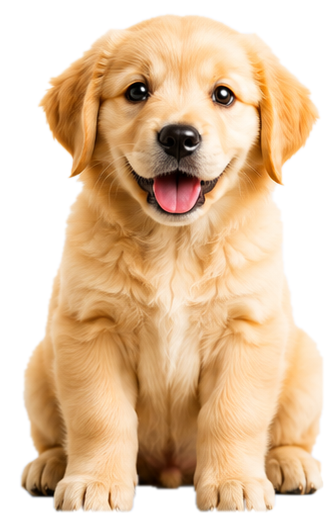
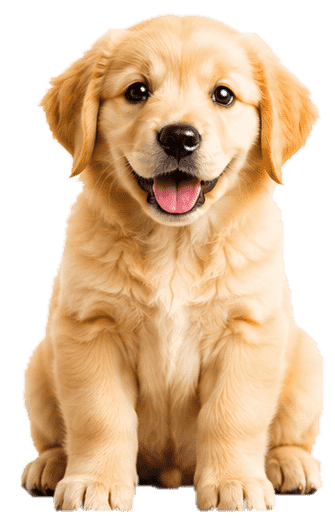
fea: reduce image size in landing

diff --git a/src/app/(default)/_components/home/hero-section.tsx b/src/app/(default)/_components/home/hero-section.tsx
@@ -70,7 +70,7 @@ export function HeroSection() {
           <div className="tw:absolute tw:-inset-3 tw:rounded-[2.25rem] tw:bg-primary/15 tw:blur-2xl tw:sm:-inset-5" />
           <div className="tw:relative tw:aspect-[16/10] tw:overflow-hidden tw:rounded-[2rem] tw:border tw:border-background/70 tw:bg-card tw:shadow-2xl tw:shadow-foreground/15">
             <Image
-              src="/images/home/hero-pets.png"
+              src="/images/home/hero-pets.jpeg"
               alt="سگ گلدن رتریور و گربه پرشین در خانهای روشن، کنار نمای موبایل پتشاپ"
               fill
               priority

diff --git a/src/app/(default)/products/_components/product-hero-section.tsx b/src/app/(default)/products/_components/product-hero-section.tsx
@@ -80,7 +80,7 @@ export function ProductHeroRenderer() {
           <div className="tw:absolute tw:-inset-3 tw:rounded-[2.75rem] tw:border tw:border-primary/15 tw:bg-primary/5 tw:rotate-2" />
           <div className="tw:relative tw:aspect-[4/3] tw:overflow-hidden tw:rounded-[2.5rem] tw:border tw:border-border/60 tw:bg-card tw:shadow-2xl tw:shadow-primary/15">
             <Image
-              src="/images/home/hero-pets.png"
+              src="/images/home/hero-pets.jpeg"
               alt="گلدن رتریور و گربه پرشین در خانه روشن"
               fill
               priority

diff --git a/src/app/(default)/pets/[slug]/_components/pet-detail-data.ts b/src/app/(default)/pets/[slug]/_components/pet-detail-data.ts
@@ -36,7 +36,7 @@ const max: PetDetail = {
   images: [
     { src: '/images/home/category-dog.jpg', alt: 'مکس، توله گلدن رتریور در فضای سبز' },
     { src: '/images/home/delivery.jpg', alt: 'مکس در محیط آرام خانه' },
-    { src: '/images/home/hero-pets.png', alt: 'مکس در کنار دیگر حیوانات خانگی' },
+    { src: '/images/home/hero-pets.jpeg', alt: 'مکس در کنار دیگر حیوانات خانگی' },
   ],
 };
 

diff --git a/src/app/(default)/pets/landing/_components/pet-hero-section.tsx b/src/app/(default)/pets/landing/_components/pet-hero-section.tsx
@@ -14,7 +14,7 @@ export function PetHeroSection() {
     >
       <div className="tw:group/hero tw:relative tw:h-[530px] tw:overflow-hidden tw:rounded-3xl tw:shadow-lg tw:md:h-[600px]">
         <Image
-          src="/images/home/hero-pets.png"
+          src="/images/home/hero-pets.jpeg"
           alt="سگ گلدن رتریور و گربه پرشین در خانهای روشن"
           fill
           priority
